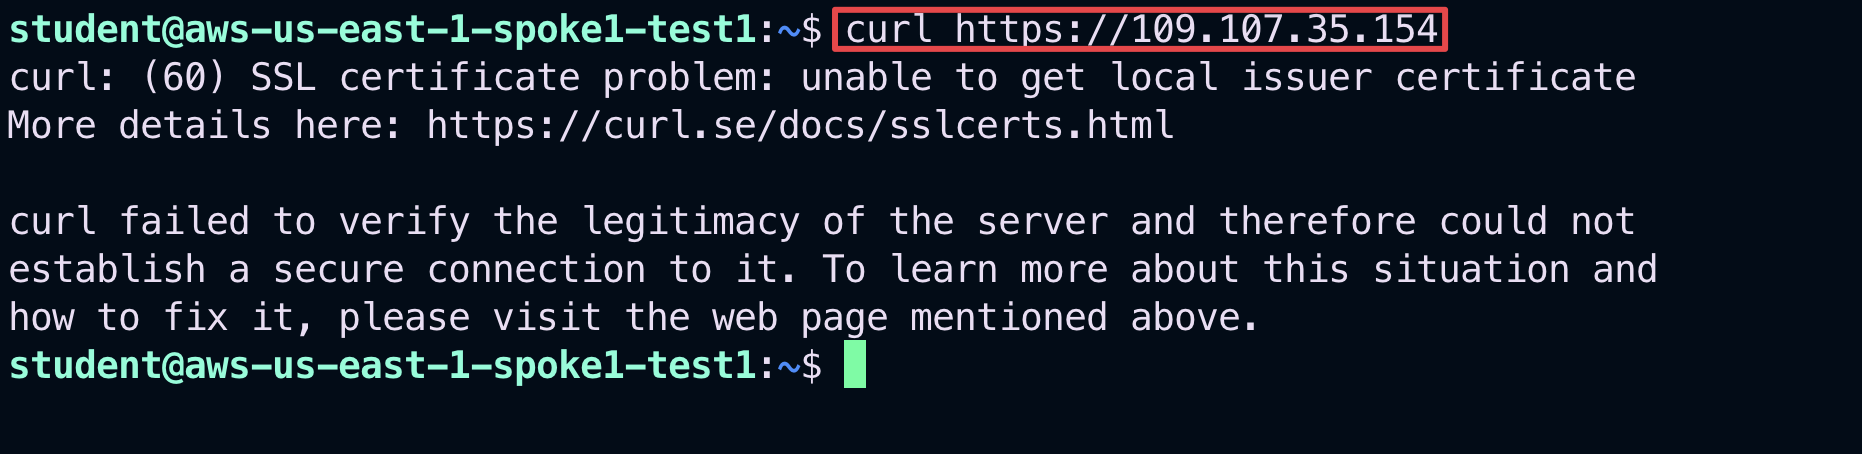
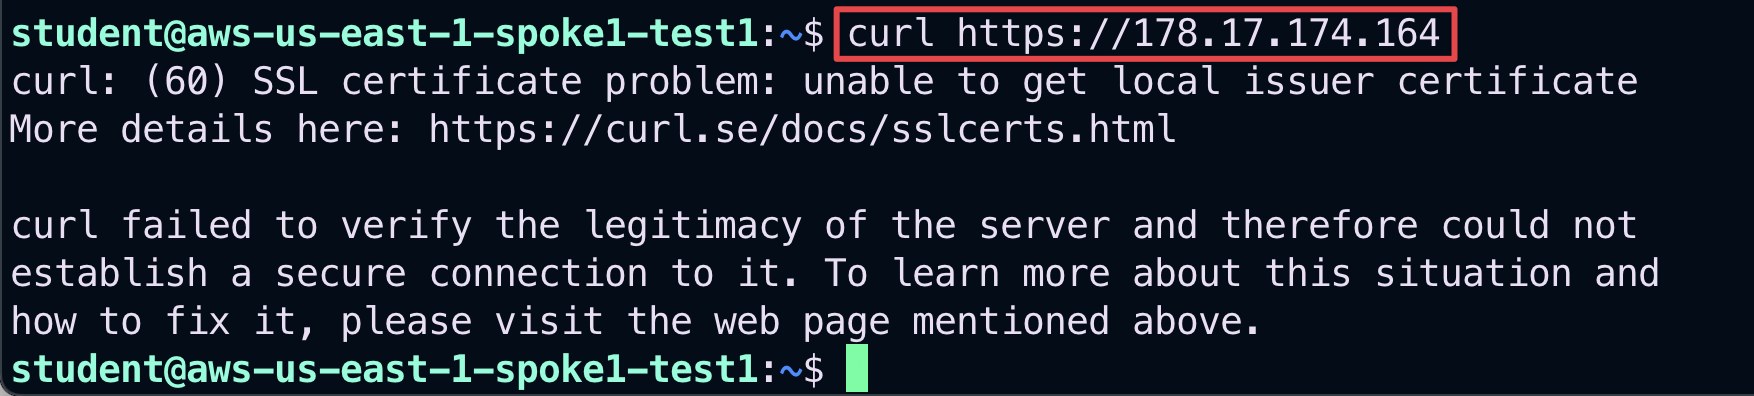
update for pro

Changed region(s): [[0.0, 0.4545, 1.0, 1.0], [0.0, 0.0, 0.9544, 0.3636]]

diff --git a/ace_pro/docs/lab9.md b/ace_pro/docs/lab9.md
@@ -100,7 +100,7 @@ align: center
 aws-us-east1-spoke1-rtb-public-a
 ```
 
-## 4.0 Generate traffic towards a Malicious IP
+## 4. Generate traffic towards a Malicious IP
 
 Now that there is a PSF Gateway on defending the Public Subnet, let's generate some traffic towards an IP with **Bad Reputation**.
 
@@ -147,15 +147,13 @@ align: center
 SSH session
 ```
 
-`<malicious-IP>`: **_109.107.35.154_**
-
-
-
 - Issue this command (make sure to enter **HTTPS**):
 
 ```bash
 curl https://<malicious-IP>
 ```
+
+`<malicious-IP>`: **_178.17.174.164 _**
 
 ```{figure} images/lab9-instancetest.png
 ---
@@ -164,7 +162,7 @@ align: center
 Curl towards the malicious IP
 ```
 
-## 5.0 Create a new SmartGroup
+## 5. Create a new SmartGroup
 
 The traffic towards the malicious IP is permitted... Let's now enforce the `Threats Detection mechanism`!
 
@@ -209,7 +207,7 @@ align: center
 SmartGroups List
 ```
 
-## 6.0 Create two new DCF rules
+## 6. Create two new DCF rules
 
 Go to **CoPilot > Security > Distributed Cloud Firewall > Rules (default tab)** and create a new rule clicking on the `"+ Rule"` button.
 
@@ -299,7 +297,7 @@ Default ThreatGroup
 `ProofPoint` sends its new malicious IP addresses DB to the CoPilot every **30 minutes**. 
 ```
 
-## 7.0 Generate again traffic towards the "Bad Guy"
+## 7. Generate again traffic towards the "Bad Guy"
 
 Now let's delete the **Greenfield-Rule**, such that the **ZTNA** can be restored in the Data Path!
 
@@ -309,7 +307,7 @@ Do not forget to click on **Commit**.
 
 ```{figure} images/lab66-newruledelete.png
 ---
-height: 350px
+height: 250px
 align: center
 ---
 Deletion of the Greenfield-Rule
@@ -437,7 +435,15 @@ align: center
 Gatus
 ```
 
-The traffic is blocked now.
+The traffic to the Malicious IP will gradually fail.
+
+```{figure} images/lab9-gatus678.png
+---
+height: 400px
+align: center
+---
+Malicious ip
+```
 
 ### 8.2 Connectivity Testing Using the SSH Client <span style='color:#33ECFF'>(BONUS)</span></summary>
 
@@ -521,7 +527,6 @@ Now go to **CoPilot > Security > ThreatIQ**  section, then scroll down through t
 
 ```{figure} images/lab96-newrule308.png
 ---
-height: 300px
 align: center
 ---
 Filter
@@ -529,7 +534,6 @@ Filter
 
 ```{figure} images/lab96-newrule309.png
 ---
-height: 300px
 align: center
 ---
 Condition

diff --git a/ace_pro/docs/lab11.md b/ace_pro/docs/lab11.md
@@ -1070,7 +1070,7 @@ align: center
 Final Topology
 ```
 
-## 7. Spoke to Spoke Attachment
+## 16. Spoke to Spoke Attachment
 
 Now that you have enabled the Distributed Cloud Firewall, the owner of the **_azure-west-us-spoke2-test1_** VM would like to communicate directly with the nearby **_azure-west-us-spoke1-test1_** VM, avoding that the traffic generated from the VNet is sent to the NGFW, first.
 
